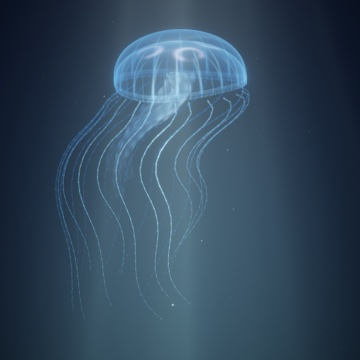
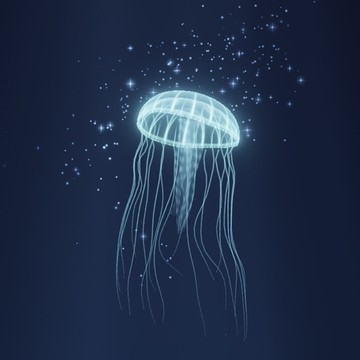
My Fair Jelly を App Store で配信開始：ストアへのリンク、トップを「配信中」に、アイコンを新しいものに

diff --git a/my-fair-jelly/index.html b/my-fair-jelly/index.html
@@ -18,7 +18,7 @@
   <img class="icon" src="img/icon.jpg" alt="My Fair Jelly のアイコン" width="104" height="104">
   <h1>My Fair Jelly</h1>
   <p class="sub">iPhone の中の、小さなクラゲの水槽</p>
-  <span class="badge">App Store にて近日公開</span>
+  <a class="badge" href="https://apps.apple.com/jp/app/my-fair-jelly/id6819178234">App Store で見る</a>
   <div class="langs"><a href="#en">English</a></div>
 </header>
 
@@ -76,7 +76,7 @@
   <li><strong>Be gentle</strong> — poke or shake them too much and they get tired. Leave the tank too long and their numbers slowly dwindle.</li>
   <li><strong>Light that follows the day</strong> — pale blue in the morning, white at noon, warm amber in the evening, moonlight at night.</li>
 </ul>
-<p class="meta">Free, with an occasional ad when the app opens. Remove ads with a one-time in-app purchase. Requires iOS 17 or later. Coming soon to the App Store.</p>
+<p class="meta">Free, with an occasional ad when the app opens. Remove ads with a one-time in-app purchase. Requires iOS 17 or later. <a href="https://apps.apple.com/app/my-fair-jelly/id6819178234">Available on the App Store</a>.</p>
 <ul class="links">
   <li><a href="support.html#en">Support</a></li>
   <li><a href="privacy.html#en">Privacy Policy</a></li>

diff --git a/index.html b/index.html
@@ -72,7 +72,7 @@ footer{margin-top:40px; font-size:12px; color:var(--ink2)}
     <div>
       <p class="name">My Fair Jelly</p>
       <p class="desc">iPhone の中の、小さなクラゲの水槽。</p>
-      <span class="tag">近日公開</span>
+      <span class="tag live">App Store で配信中</span>
     </div>
   </a>
   <a class="app" href="bota-log/">
